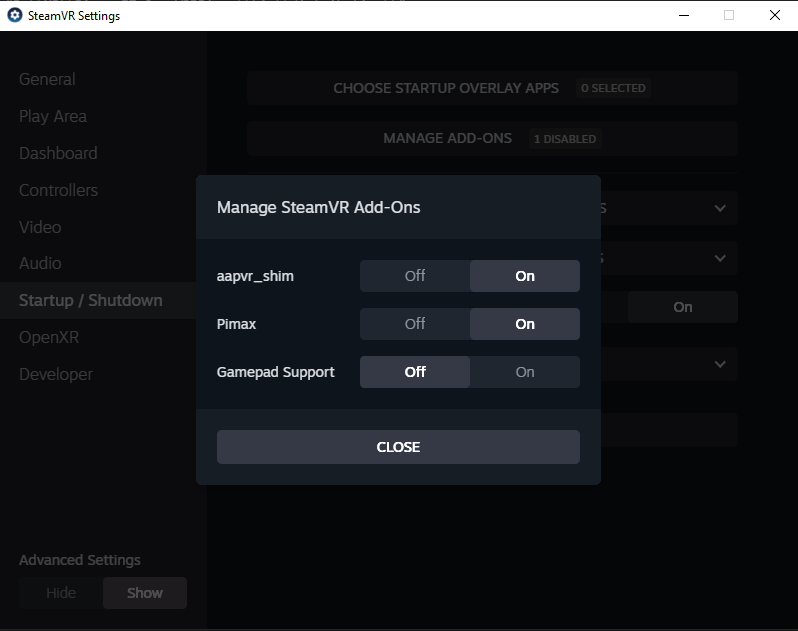
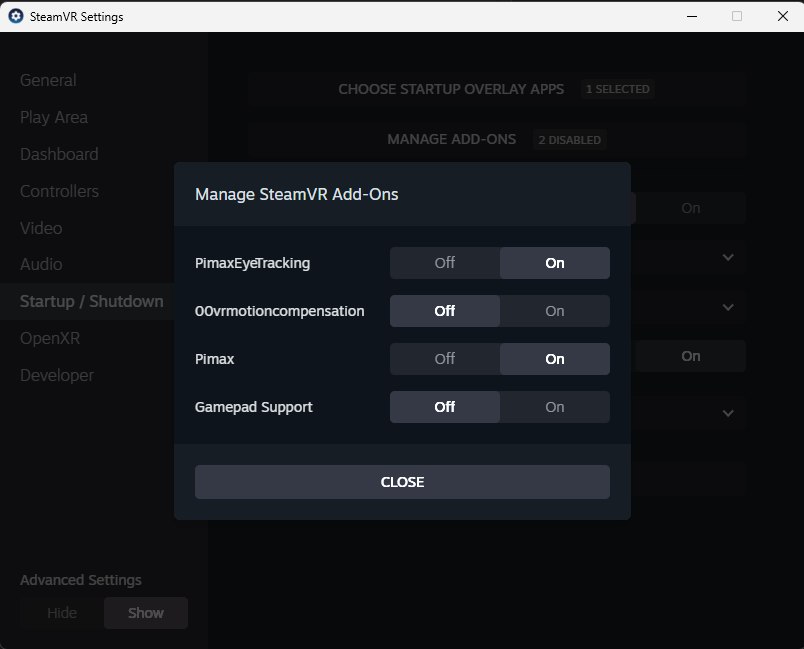
Rename to a friendlier name.

diff --git a/README.md b/README.md
@@ -108,7 +108,7 @@ Our shim driver must be loaded early, which can be accomplished by providing a `
 
 ```json
 {
-  "driver_aapvr_shim": {
+  "driver_PimaxEyeTracking": {
     "loadPriority": 1000
   }
 }
